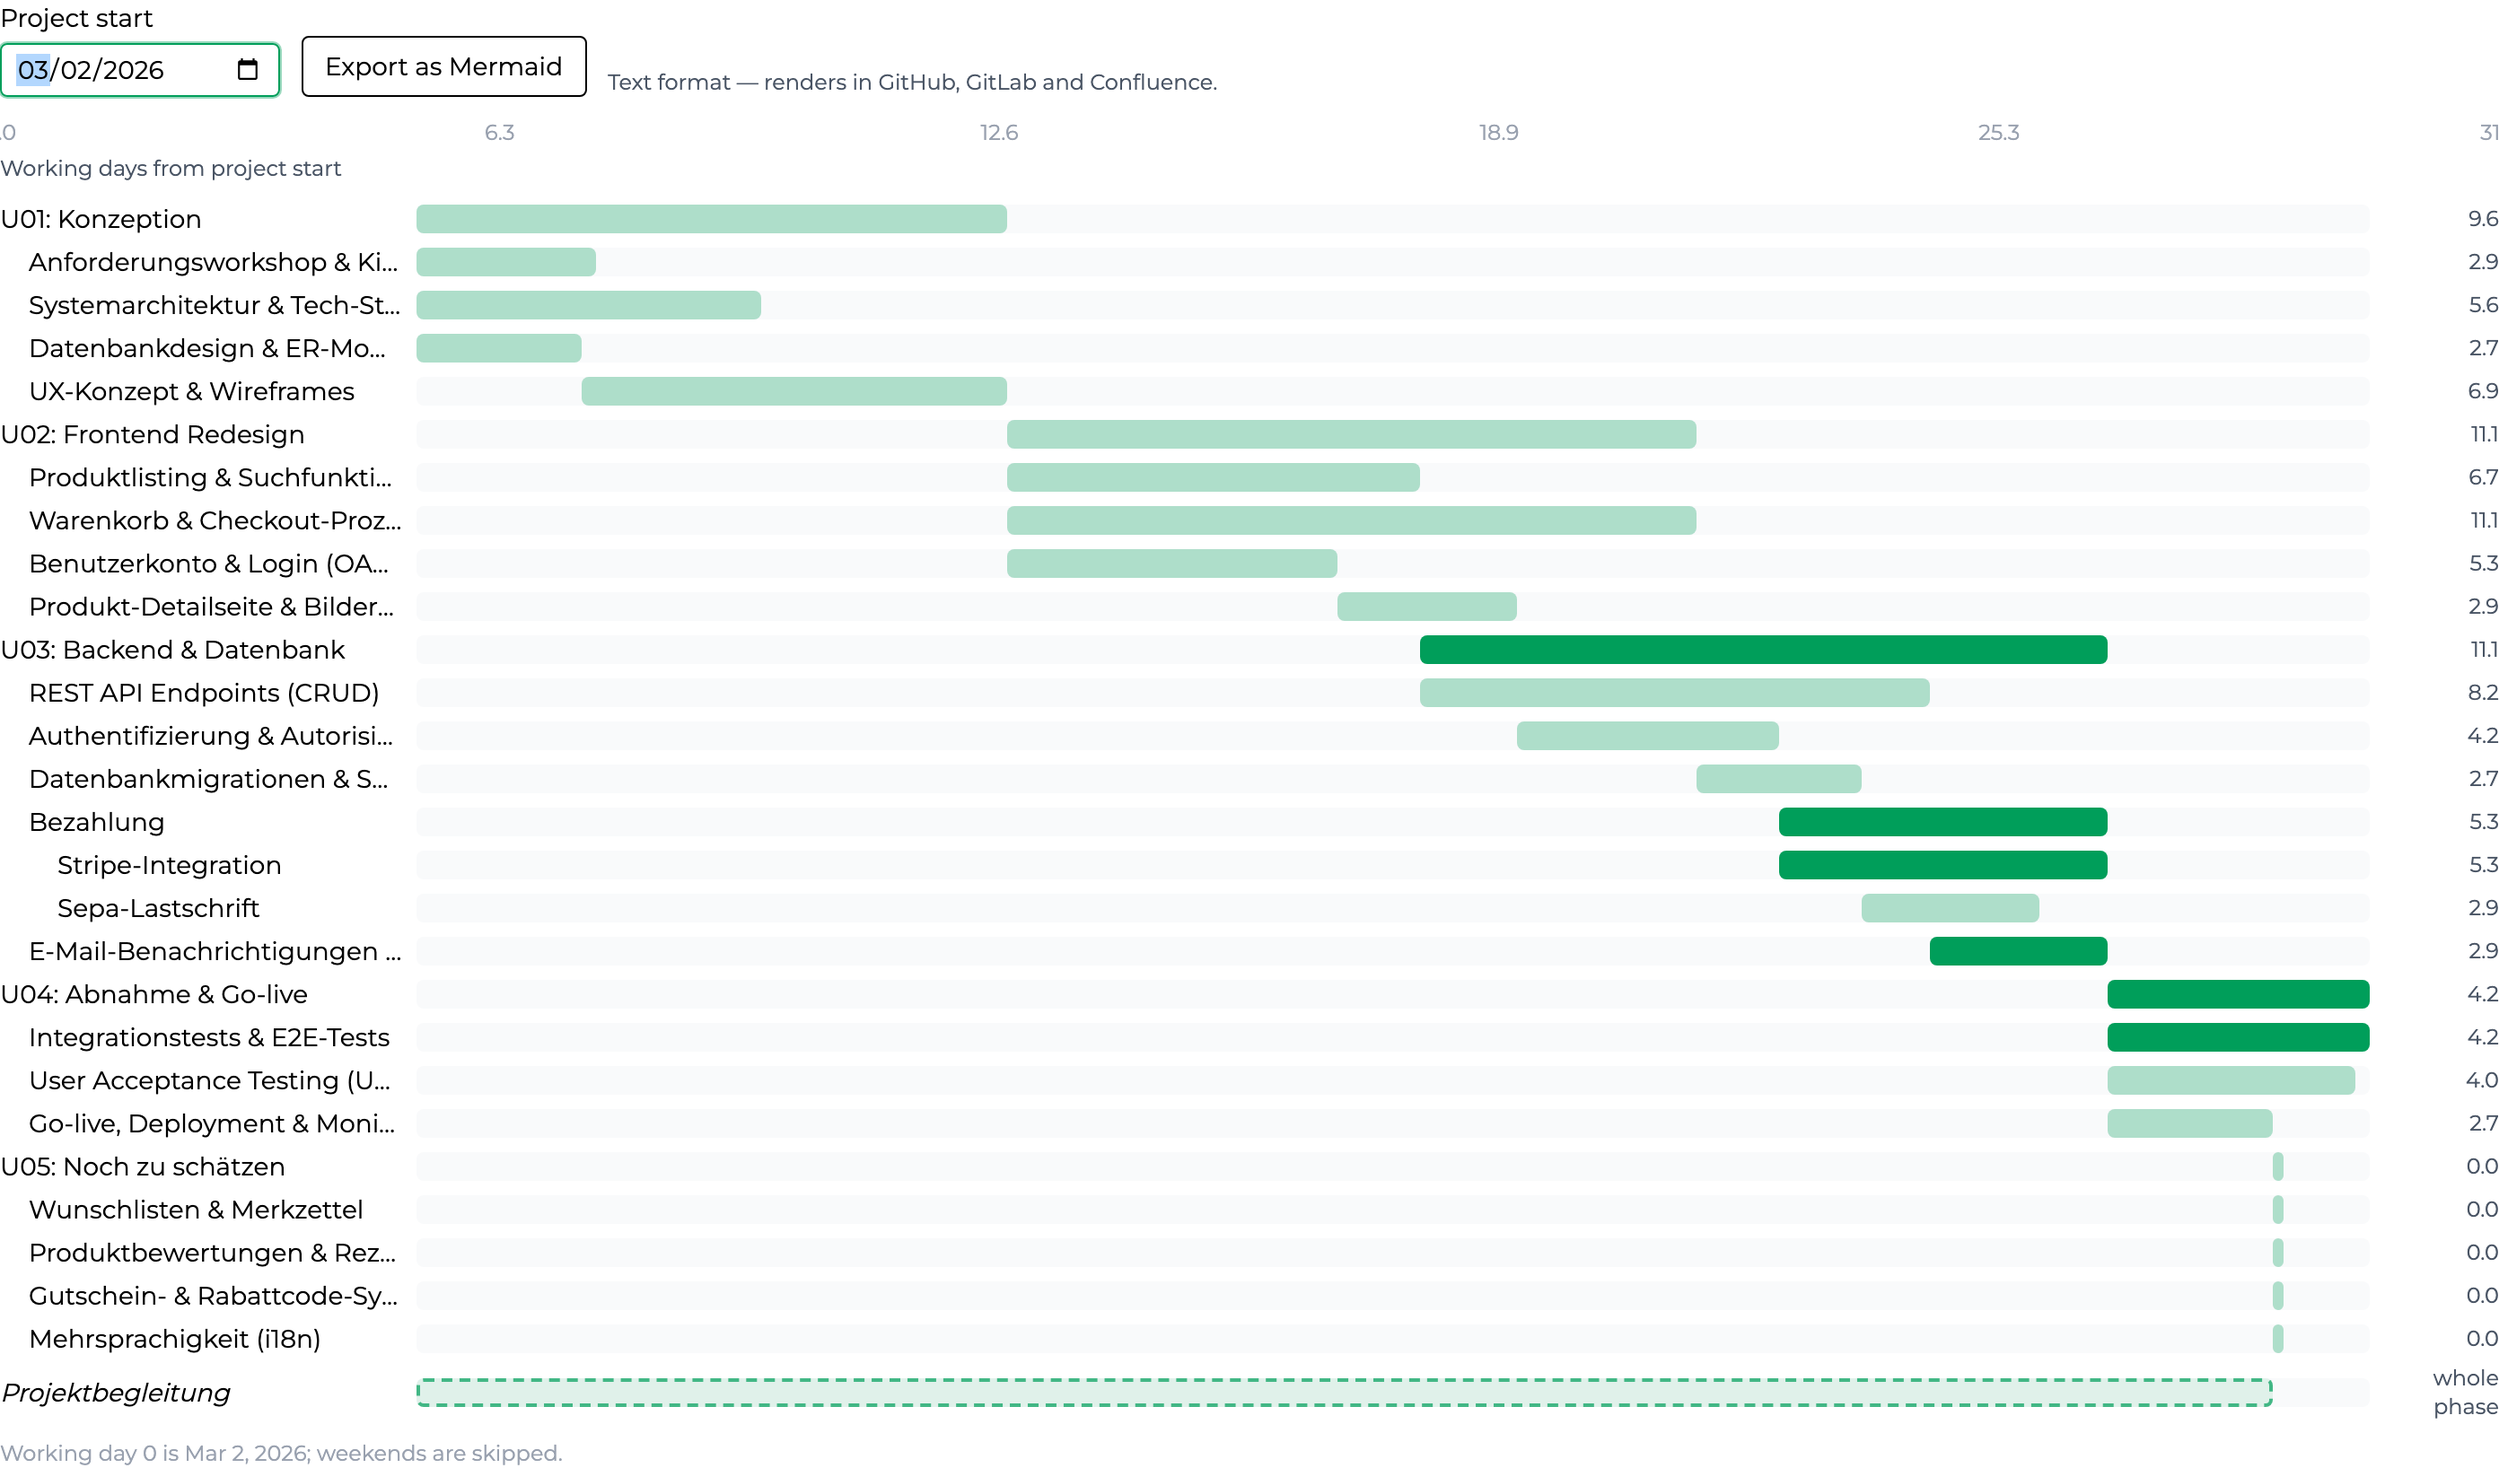
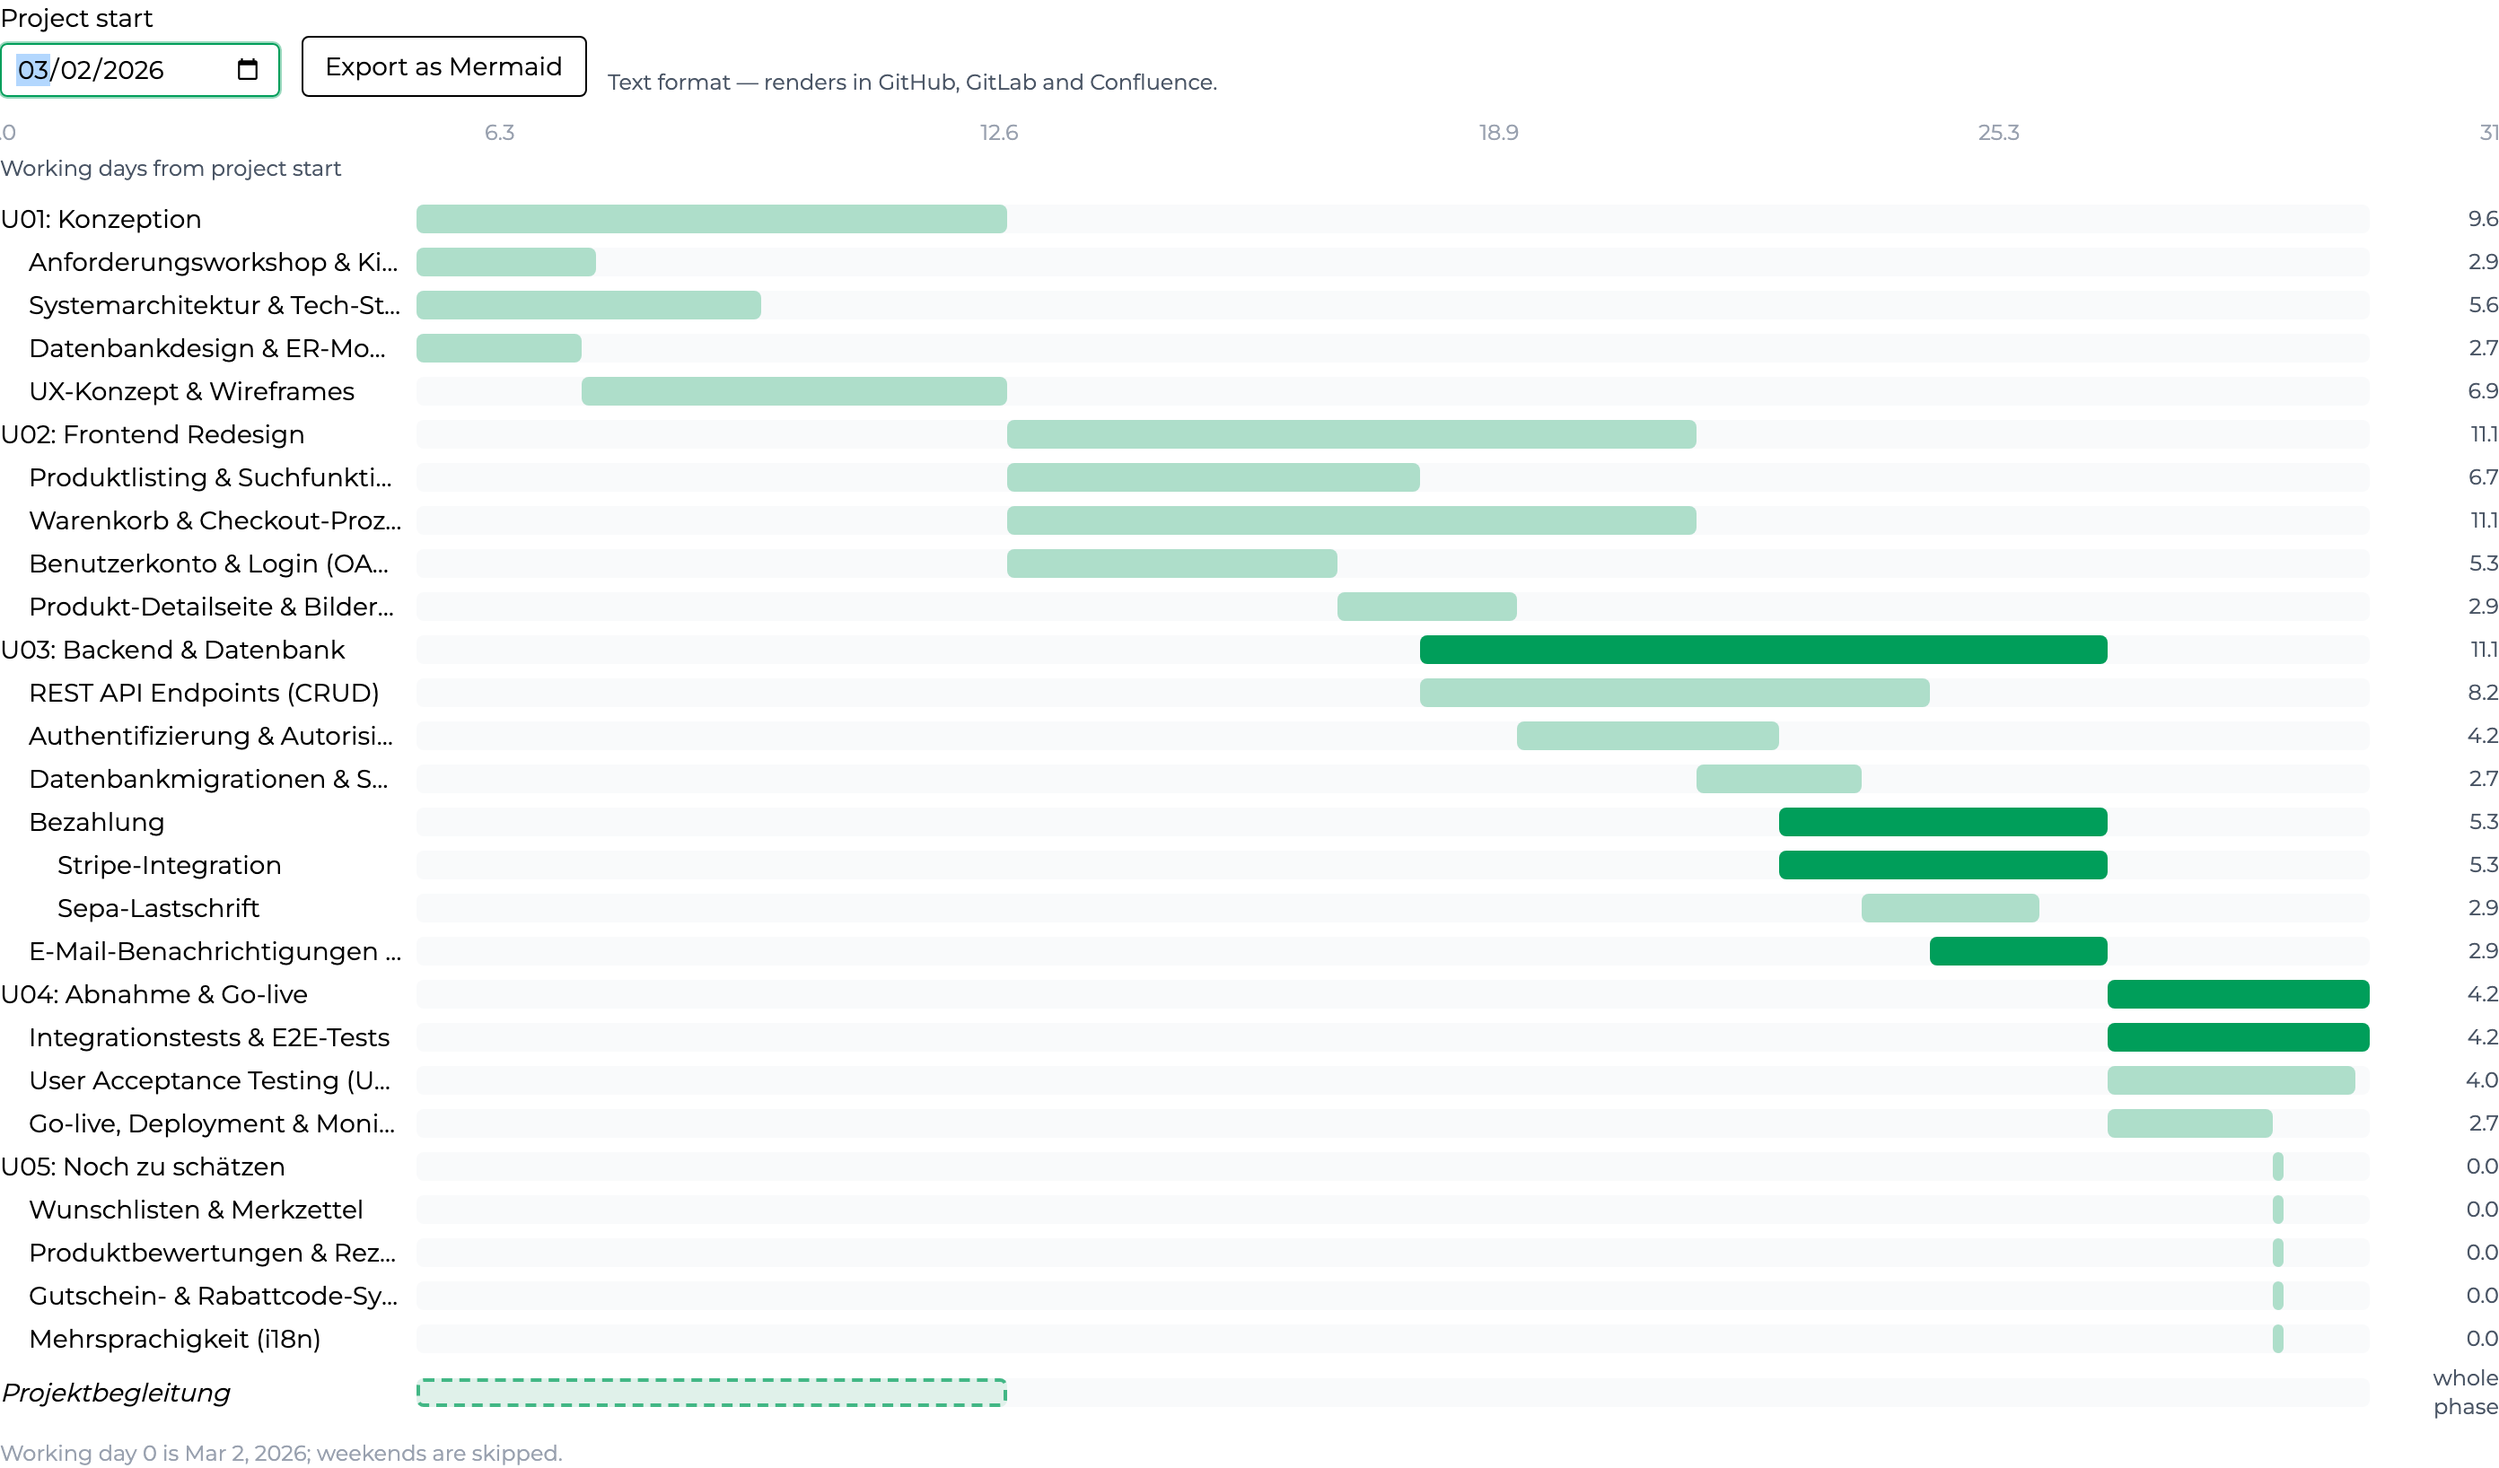
task-216: Zero-length leaves must not stretch a phase window

Changed region(s): [[0.375, 0.9352, 0.9062, 0.9664]]

diff --git a/src/domain/src/test/kotlin/io/pythia/model/ProjectScheduleTest.kt b/src/domain/src/test/kotlin/io/pythia/model/ProjectScheduleTest.kt
@@ -598,6 +598,72 @@ class ProjectScheduleTest {
         assertEquals(1, schedule.phaseWindows.single { it.abbreviation == "KO" }.scheduledLeafCount)
     }
 
+    /**
+     * k1 (KO, 10 d), u1 (UM, 5 d), k0 (KO, 0/0/0) with one worker. The UM leaf
+     * between them is the point: it pushes k0 to day 15, so a window that let
+     * k0 count would end at 15. Without it k0 would sit at day 10 and the test
+     * could not tell the difference (task-216).
+     */
+    private fun versionWithUnestimatedKoLeafLast(): EstimationVersion {
+        val ko = phase("KO")
+        val um = phase("UM")
+        return versionOf(
+            EstimationGroup(
+                title = "Unit A",
+                children = listOf(
+                    phasedLeaf("k1", 10.0, ko),
+                    phasedLeaf("u1", 5.0, um),
+                    phasedLeaf("k0", 0.0, ko)
+                ),
+                _logicalId = "A"
+            )
+        )
+    }
+
+    @Test
+    fun `a zero-length leaf does not stretch its phase window`() {
+        val schedule = versionWithUnestimatedKoLeafLast().schedule(emptyList(), teamFte = 1.0)
+
+        val koWindow = schedule.phaseWindows.single { it.abbreviation == "KO" }
+        assertEquals(0.0, koWindow.earliestStart, 0.001)
+        assertEquals(10.0, koWindow.earliestFinish, 0.001)
+        assertEquals(1, koWindow.scheduledLeafCount)
+        assertEquals(2.0, koWindow.durationWeeks, 0.001)
+    }
+
+    @Test
+    fun `a phase with only zero-length leaves has no window`() {
+        val ko = phase("KO")
+        val open = ProjectPhase(
+            name = "Phase OP",
+            abbreviation = "OP",
+            durationWeeks = 4.0,
+            durationMode = PhaseDurationMode.AUTOMATIC
+        )
+        val version = versionOf(
+            EstimationGroup(
+                title = "Unit A",
+                children = listOf(phasedLeaf("a", 10.0, ko), phasedLeaf("o", 0.0, open)),
+                _logicalId = "A"
+            )
+        )
+        val schedule = version.schedule(emptyList(), teamFte = 1.0)
+
+        // Only an unestimated placeholder carries OP: there is nothing to derive
+        // an AUTOMATIC length from, exactly as for a phase of accompanying work.
+        assertTrue(schedule.phaseWindows.none { it.abbreviation == "OP" })
+        assertEquals(1, schedule.phaseWindows.single { it.abbreviation == "KO" }.scheduledLeafCount)
+    }
+
+    @Test
+    fun `a zero-length leaf is still scheduled`() {
+        val schedule = versionWithUnestimatedKoLeafLast().schedule(emptyList(), teamFte = 1.0)
+
+        val placeholder = schedule.task("leaf-k0")
+        assertEquals(0.0, placeholder.durationDays, 0.001)
+        assertEquals(15.0, placeholder.earliestStart, 0.001)
+    }
+
     // ------------------------------------------------- levelling priority (task-211)
     //
     // The helpers above use ids that are alphabetical in tree order, which is

diff --git a/src/domain/core/src/main/kotlin/io/pythia/model/ProjectSchedule.kt b/src/domain/core/src/main/kotlin/io/pythia/model/ProjectSchedule.kt
@@ -38,6 +38,13 @@ const val WORKING_DAYS_PER_WEEK: Double = 5.0
  * SCHEDULED leaves. `scheduledLeafCount` is 0 for a phase that carries only
  * accompanying work — a caller must say so rather than render zero weeks, which
  * would look like a defect.
+ *
+ * Only leaves WITH duration shape a window (task-216): zero-length leaves —
+ * unestimated 0/0/0 placeholders — are still scheduled and drawn, but neither
+ * move its bounds nor count in `scheduledLeafCount`. Otherwise a placeholder
+ * would set the phase's length merely by where the levelling put it, and an
+ * AUTOMATIC phase and its accompanying work's effort derive from that length.
+ * A phase holding only such leaves has no window.
  */
 @JsExport
 data class PhaseWindow(
@@ -285,6 +292,13 @@ internal fun computeSchedule(
 
     val tasks = tree.map { node -> scheduledTaskFor(node, forward, criticalLeaves) }
     val phaseWindows = phaseWindowsOf(tree, forward)
+    val zeroLength = tree.count { node ->
+        node.isScheduledLeaf && node.phaseAbbreviation != null &&
+            forward[node.logicalId]?.let(::hasDuration) == false
+    }
+    if (zeroLength > 0) {
+        logger.debug { "schedule(): $zeroLength zero-length leaf/leaves left out of phase windows" }
+    }
 
     // The band follows the longest DEPENDENCY path's own mean and variance, not
     // projectDurationDays: offerPT already carries a stdDevFactor loading, so
@@ -456,6 +470,10 @@ private fun emptySchedule(teamFte: Double) = ProjectSchedule(
  * leaves (task-177). Accompanying work runs across the whole of this window
  * rather than occupying a slot inside it, and an AUTOMATIC phase length is this
  * window expressed in weeks.
+ *
+ * Zero-length leaves are left out (task-216): an unestimated placeholder must
+ * not set a phase's length, which an AUTOMATIC phase and its accompanying
+ * work's effort derive from.
  */
 private fun phaseWindowsOf(
     tree: List<TreeNode>,
@@ -464,6 +482,7 @@ private fun phaseWindowsOf(
     .filter { it.isScheduledLeaf }
     .mapNotNull { leaf -> leaf.phaseAbbreviation?.let { abbr -> abbr to forward[leaf.logicalId] } }
     .mapNotNull { (abbr, state) -> state?.let { abbr to it } }
+    .filter { (_, state) -> hasDuration(state) }
     .groupBy({ it.first }, { it.second })
     .map { (abbr, states) ->
         PhaseWindow(
@@ -474,6 +493,9 @@ private fun phaseWindowsOf(
         )
     }
     .sortedBy { it.earliestStart }
+
+private fun hasDuration(state: ForwardState): Boolean =
+    state.earliestFinish - state.earliestStart > CRITICAL_SLACK_EPSILON
 
 private fun failedSchedule(teamFte: Double, error: ScheduleError) = ProjectSchedule(
     tasks = emptyList(),

diff --git a/src/domain/CLAUDE.md b/src/domain/CLAUDE.md
@@ -56,7 +56,7 @@ Failures are **data**: `ProjectSchedule.error` is a `ScheduleError` carrying a `
 
 ## Accompanying work (task-177, task-213)
 
-**Accompanying work is EXCLUDED from the schedule, and that breaks a cycle (task-177).** `TimeRelativeEstimationItem.mean` is `PERT(min, exp, max) × phase.durationWeeks` — its effort is DERIVED FROM its phase's length. So if a phase's length is computed from the plan and the plan schedules the item, the plan depends on a number that depends on the plan. The resolution is that such a leaf is not a node in the scheduling graph at all: `EstimationItem` declares `abstract val isScheduled: Boolean`, `TimeRelativeEstimationItem` overrides it to `false`, and `ProjectSchedule` filters on it. Excluded, NOT zero-length — a zero-length node would still sit in the graph and in the makespan arithmetic. The pipeline is then acyclic: schedule the scheduled leaves → `phaseWindows` → an AUTOMATIC phase length → the variable item's effort. Edges naming an excluded leaf are dropped when lowering, so a row already in the database cannot break the plan.
+**Accompanying work is EXCLUDED from the schedule, and that breaks a cycle (task-177).** `TimeRelativeEstimationItem.mean` is `PERT(min, exp, max) × phase.durationWeeks` — its effort is DERIVED FROM its phase's length. So if a phase's length is computed from the plan and the plan schedules the item, the plan depends on a number that depends on the plan. The resolution is that such a leaf is not a node in the scheduling graph at all: `EstimationItem` declares `abstract val isScheduled: Boolean`, `TimeRelativeEstimationItem` overrides it to `false`, and `ProjectSchedule` filters on it. Excluded, NOT zero-length — a zero-length node would still sit in the graph and in the makespan arithmetic. The pipeline is then acyclic: schedule the scheduled leaves → `phaseWindows` → an AUTOMATIC phase length → the variable item's effort. Edges naming an excluded leaf are dropped when lowering, so a row already in the database cannot break the plan. **A phase window is spanned by the phase's scheduled leaves WITH duration only (task-216):** a zero-length leaf — an unestimated 0/0/0 placeholder — is still scheduled and drawn, but neither moves the window nor counts in `scheduledLeafCount`, because since task-211 levelling by tree order would otherwise let a placeholder set an AUTOMATIC phase's length, and so its accompanying work's effort, merely by where it sits in the tree. A phase holding only such leaves has no window, the existing "no scheduled work" case.
 
 **Unit of accompanying work (task-213): the inputs are HOURS per week.** `TimeRelativeEstimationItem.mean` is `PERT(min, exp, max) × durationWeeks ÷ hoursPerDay` and its variance is divided by `hoursPerDay²`. Before task-213 nothing converted, so hours were summed as person-days (8× too much at 8 h/day). `hoursPerDay` is a per-installation setting (default `EstimationDefaults.HOURS_PER_DAY = 8.0`), supplied by the caller as `EstimationVersion.hoursPerDay` and carried to the leaves in `CalculationParameters.hoursPerDay`. **The trap:** `calculate()` sums the leaves' mean and variance into the risk factor BEFORE the full parameters exist, and core cannot see the time-relative leaf type — so it first stamps every leaf with `CalculationParameters(hoursPerDay = …)`, then computes totals and risk factor, then stamps the full parameters. Without that pre-stamp the risk factor silently uses 8 while the leaves use the tenant's value; `EstimationVersionHoursPerDayTest` (6 h/day) fails if it is ever removed. `DomainFactory.createVersion` takes `hoursPerDay` as its LAST parameter because `adapter.ts` calls it positionally.
 

diff --git a/docs/scheduling.md b/docs/scheduling.md
@@ -133,6 +133,13 @@ than a wrong number.
 Every phase gets a window — its earliest start, its earliest finish, and how
 many scheduled leaves fall inside it — over a five-day working week.
 
+Only leaves with a duration shape a window. An unestimated item (0/0/0) is
+still scheduled and drawn as a thin marker, but it neither moves its phase's
+window nor counts towards it, so adding a placeholder cannot lengthen a
+computed phase. A phase holding only such items has no window; a computed
+phase then keeps its last length, and the phases panel says there is nothing
+to compute from.
+
 A phase's length can be either **specified** by hand or **computed from the net
 plan**, chosen per phase. Computing it closes the loop that used to be left to
 the estimator: the phase length that accompanying work is measured against then
